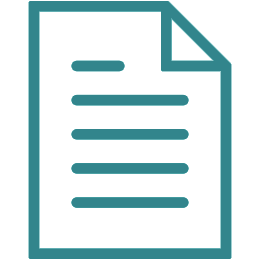
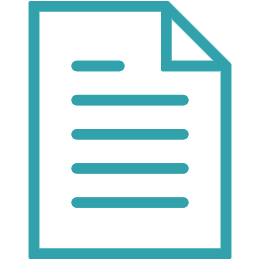
settle midway in between turquoise darknesses

diff --git a/css/main.css b/css/main.css
@@ -193,14 +193,14 @@
     nav.menu.drawer a {
       color: #a9a2a6; }
       nav.menu.drawer a.current {
-        color: #32858c; }
+        color: #31a2ab; }
         nav.menu.drawer a.current .border {
           display: inline-block;
           width: 0;
           height: 0.5em; }
           nav.menu.drawer a.current .border::after {
             content: '';
-            border: 0.2em solid #32858c;
+            border: 0.2em solid #31a2ab;
             border-radius: 50%;
             display: block;
             left: 0.6em;
@@ -211,7 +211,7 @@
       padding: 0; }
       nav.menu.drawer ul li {
         background: white;
-        border-top: 2px solid #dfd8d7;
+        border-top: 2px solid #f1eeed;
         font-size: 1.2em;
         font-weight: 400;
         padding: 3vh 2vh;
@@ -307,7 +307,7 @@ nav.main.menu {
           position: relative; }
           nav.main.menu.mobile ul a.current li,
           nav.main.menu.mobile ul a.hamburger.current li {
-            color: #32858c; }
+            color: #31a2ab; }
           nav.main.menu.mobile ul a.current .border,
           nav.main.menu.mobile ul a.hamburger.current .border {
             display: none; }

diff --git a/css/scss/nav.scss b/css/scss/nav.scss
@@ -18,14 +18,14 @@ nav.menu.drawer {
 		a {
 			color: lighten($grey-medium, 10%);
 			&.current {
-				color: $turquoise;
+				color: $turquoise-medium;
 				.border {
 					display: inline-block;
 					width: 0;
 					height: 0.5em;
 					&::after {
 						content: '';
-						border: 0.2em solid $turquoise;
+						border: 0.2em solid $turquoise-medium;
 						border-radius: 50%;
 						display: block;
 						left: 0.6em;
@@ -40,7 +40,7 @@ nav.menu.drawer {
 			padding: 0;
 			li {
 				background: white;
-				border-top: 2px solid lighten($grey-light, 10%);
+				border-top: 2px solid lighten($grey-light, 18%);
 				font-size: 1.2em;
 				font-weight: 400;
 				padding: 3vh 2vh;
@@ -117,7 +117,7 @@ nav.main.menu {
 				&.current {
 					position: relative;
 					li {
-						color: $turquoise;
+						color: $turquoise-medium;
 					}
 					.border {
 						display: none;

diff --git a/css/scss/_variables.scss b/css/scss/_variables.scss
@@ -7,6 +7,7 @@
 
 $beige-lightest    : #f5e7e0;
 $turquoise-light   : #3dbfbd;
+$turquoise-medium  : #31a2ab;
 $turquoise         : #32858c;
 $turquoise-dark    : #0f646d;
 $green-grass-light : #5c9e33;
